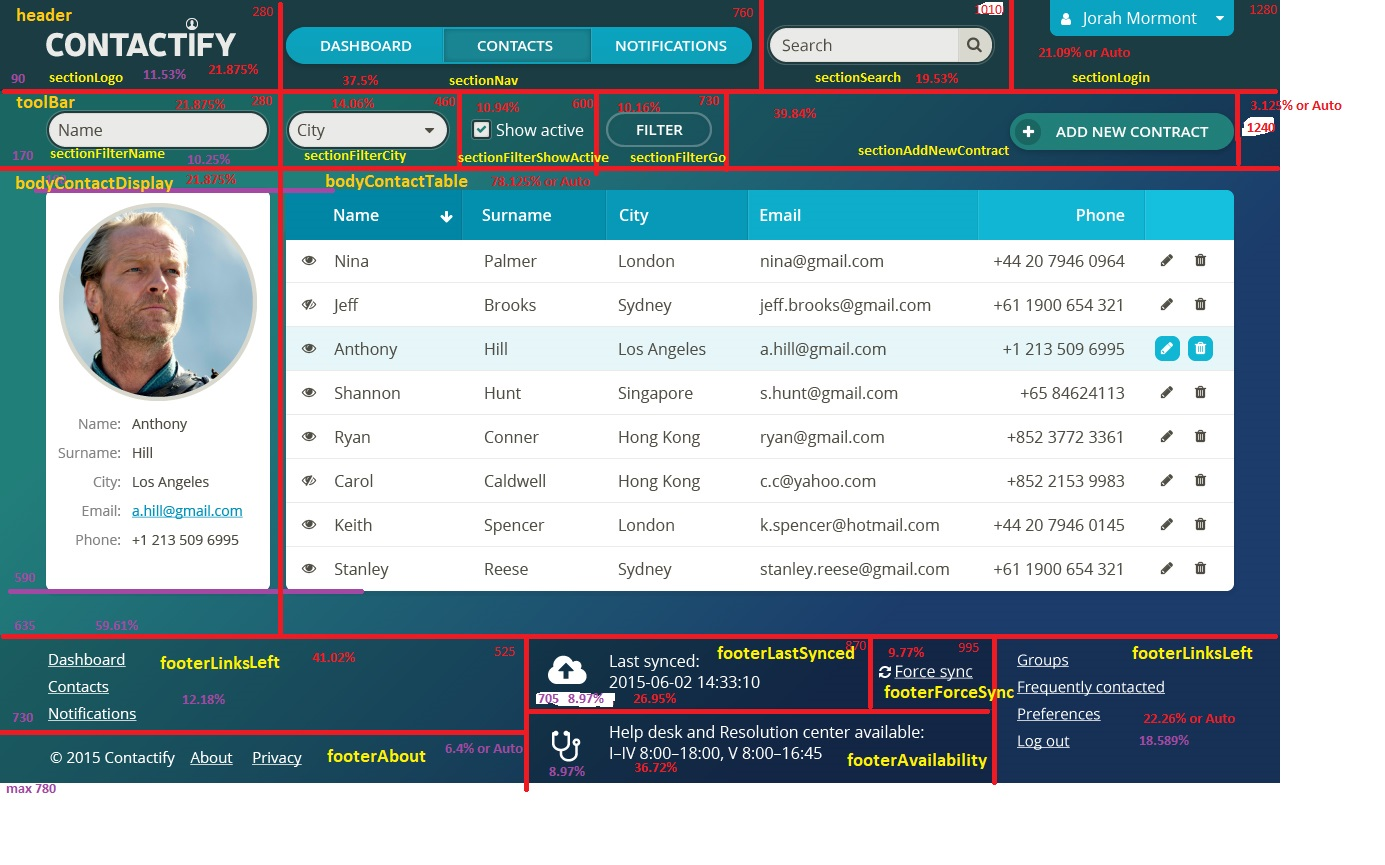
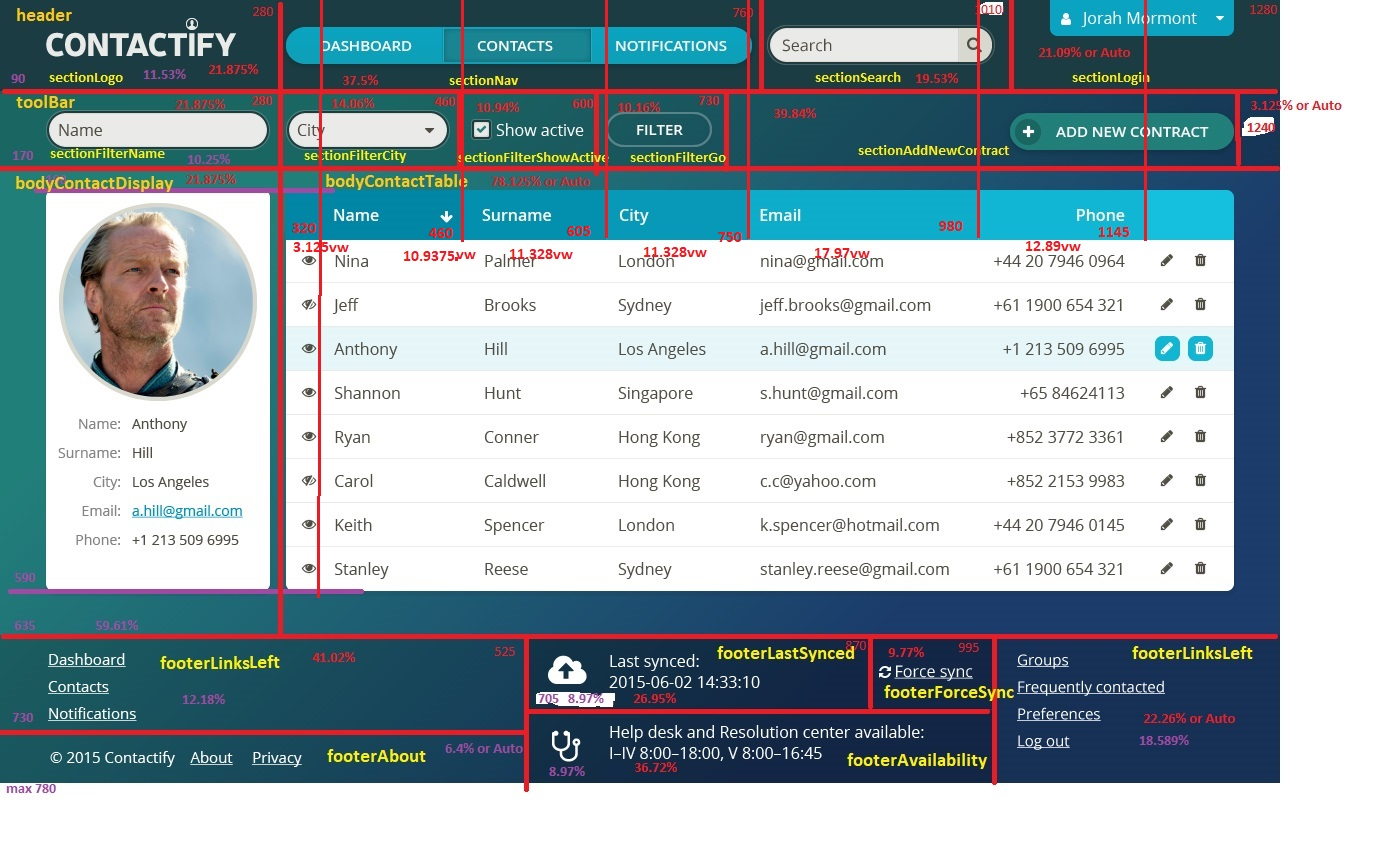
now add sort state to container

diff --git a/src/views/body/Table/Table.js b/src/views/body/Table/Table.js
@@ -1,52 +1,45 @@
 import React from 'react';
 import PropTypes from 'prop-types';
-import styled from 'styled-components';
+import { SectionTable, Table, Header, ColumnWithSort, IconButtonToggle, Body } from './Table.styles';
 import Row from './Row';
 
-const SectionTable = styled.div`
-  grid-area: table;
-`;
-const Table = styled.table`
-  position: relative;
-  width: 100%;
-  padding-top: 20px;
-  font-family: "Open Sans Regular", sans-serif;
-  font-size: 1rem;
-`;
-
-const Header = styled.thead`
-  color: white;
-`;
-const Body = styled.tbody`
-  color: rgba(0,0,0,0.69);
-`;
-
-const View = ({ className, contacts }) => {
-  return (
-    <SectionTable className={className}>
-      <Table>
-        <Header>
-          <tr>
-            <th>Active</th>
-            <th>Name</th>
-            <th>Surname</th>
-            <th>City</th>
-            <th>Email</th>
-            <th>Phone</th>
-            <th />
-          </tr>
-        </Header>
-        <Body>
-          {contacts.map(contact => <Row key={contact.id} contact={contact} />)}
-        </Body>
-      </Table>
-    </SectionTable>
-  );
-};
+const View = ({ className, contacts, sortOrderName }) => (
+  <SectionTable className={className}>
+    <Table>
+      <Header>
+        <tr>
+          <th />
+          <ColumnWithSort>
+            <span>Name</span>
+            <IconButtonToggle
+              icon="arrow-down"
+              size="lg"
+              style={sortOrderName === 'asc' ? {} : { transform: 'rotate(180deg)' }}
+              onClick={() => console.log('llll')}
+            />
+          </ColumnWithSort>
+          <th>Surname</th>
+          <th>City</th>
+          <th>Email</th>
+          <th>Phone</th>
+          <th />
+        </tr>
+      </Header>
+      <Body>
+        {contacts.map(contact => <Row key={contact.id} contact={contact} />)}
+      </Body>
+    </Table>
+  </SectionTable>
+);
 
 View.propTypes = {
   className: PropTypes.string.isRequired,
   contacts: PropTypes.array.isRequired,
+  sortOrderName: PropTypes.oneOf('asc', 'desc'),
 };
 
 export default View;
+
+View.defaultProps = {
+  sortOrderName: 'asc',
+};

diff --git a/src/views/body/Table/Table.styles.js b/src/views/body/Table/Table.styles.js
@@ -1,0 +1,91 @@
+import React from 'react';
+import styled from 'styled-components';
+import { IconButton } from '../../../components';
+
+const borderRadiusSize = '6px';
+
+const SectionTable = styled.div`
+  grid-area: table;
+  padding-top: 20px;
+  padding-bottom: 40px;
+`;
+const Table = styled.table`
+  position: relative;
+  width: 100%;
+  height: 100%;
+  font-family: "Open Sans Regular", sans-serif;
+  font-size: 1rem;
+  
+  border: rgba(0,0,0,0) solid 1px;
+  border-radius: ${borderRadiusSize};
+  border-spacing: 0;
+  tr:first-of-type th:first-child {
+    border-top-left-radius: ${borderRadiusSize};    
+  }
+  tr:first-of-type th:last-child {
+    border-top-right-radius: ${borderRadiusSize};    
+  }
+  tr:last-of-type td:first-child {
+    border-bottom-left-radius: ${borderRadiusSize};    
+  }
+  tr:last-of-type td:last-child {
+    border-bottom-right-radius: ${borderRadiusSize};    
+  }
+/*tr:nth-child(odd) {
+  background-color: #EEEEEE;
+}*/
+`;
+const Header = styled.thead`
+  color: white;
+  text-align: left;
+  background-image: linear-gradient(to right, #0184ae 0%, #16c0d7 100%);
+  tr {
+    height: 6.41vh;
+  }
+  th:nth-of-type(1) { width: 3.125vw; }
+  th:nth-of-type(2) { width: auto; }
+  th:nth-of-type(3) { width: 11.328vw; }
+  th:nth-of-type(4) { width: 11.328vw; }
+  th:nth-of-type(5) { width: 17.97vw; }
+  th:nth-of-type(6) { width: 12.89vw; }
+  th:nth-of-type(7) { width: auto; }
+`;
+const Body = styled.tbody`
+  color: rgba(0,0,0,0.69);
+  background-color: rgba(255, 255, 255, 0.98);
+  tr {
+    height: 5.61vh;
+  }
+  tr:hover {
+    background-color: rgba(0,162,195,0.29);
+  }
+  tr>td {
+    border-top: rgba(0,0,0,0.10) solid 1px;
+  }
+`;
+const ColumnWithSort = styled.th`
+  display: flex;
+  place-items: center;
+  height: 100%;
+  width: 100%;
+  span {
+    flex-basis: 80%;
+  }
+  div {
+    flex-basis: 20%;
+  }
+`;
+const IconButtonToggle = styled(IconButton)`
+  transition-duration: 0.8s;
+  transition-property: transform;
+  color: white;
+`;
+
+export {
+  SectionTable,
+  Table,
+  Header,
+  Body,
+  ColumnWithSort,
+  IconButtonToggle,
+};

diff --git a/src/components/index.js b/src/components/index.js
@@ -1,5 +1,7 @@
 import React from 'react';
+import PropTypes from 'prop-types';
 import styled from 'styled-components';
+import { FontAwesomeIcon } from '@fortawesome/react-fontawesome';
 
 export const SpanOpenSans = styled.span`
   font-family: "Open Sans Semibold", sans-serif;
@@ -47,3 +49,19 @@ const LoadingText = styled.div`
 export const LoadingComponent = () => (
   <LoadingText>loading</LoadingText>
 );
+
+const Button = styled.button`
+  background-color: rgba(0,0,0,0);
+  border: rgba(0,0,0,0);
+  cursor: pointer;
+`;
+export const IconButton = ({ icon, className, onClick, ...props }) => (
+  <Button className={className} onClick={onClick}>
+    <FontAwesomeIcon icon={icon} {...props} />
+  </Button>
+);
+IconButton.propTypes = {
+  className: PropTypes.string,
+  icon: PropTypes.string.isRequired,
+  onClick: PropTypes.func,
+};

diff --git a/src/App.js b/src/App.js
@@ -1,6 +1,6 @@
 import React from 'react';
 import { library } from '@fortawesome/fontawesome-svg-core';
-import { faUserCircle } from '@fortawesome/free-solid-svg-icons';
+import { faUserCircle, faEye, faEyeSlash, faArrowDown } from '@fortawesome/free-solid-svg-icons';
 import {
   LeftHeader, LeftToolbar, LeftBody, LeftFooter,
   RightHeader, RightToolbar, RightBody, RightFooter,
@@ -32,7 +32,7 @@ import LinksRight from './views/footer/LinksRight';
 import AvailabilityLogo from './views/footer/AvailabilityLogo';
 import Availability from './views/footer/Availability';
 
-library.add(faUserCircle);
+library.add(faUserCircle, faEye, faEyeSlash, faArrowDown);
 
 
 class App extends React.Component {

diff --git a/src/views/body/Table/Row.js b/src/views/body/Table/Row.js
@@ -1,10 +1,25 @@
 import React from 'react';
 import PropTypes from 'prop-types';
 import styled from 'styled-components';
+import { FontAwesomeIcon } from '@fortawesome/react-fontawesome';
+
+const EyeRow = styled.div`
+  place-items: center;
+  place-content: center;
+  display: flex;
+  position: relative;
+  height: 100%;
+`;
+
 
 const View = ({ contact }) => (
   <tr id={contact.id}>
-    <td>{String(contact.active)}</td>
+    <td>
+      <EyeRow>{contact.active
+        ? <FontAwesomeIcon icon="eye" />
+        : <FontAwesomeIcon icon="eye-slash" flip="horizontal" />}
+      </EyeRow>
+    </td>
     <td>{contact.name}</td>
     <td>{contact.surname}</td>
     <td>{contact.city}</td>
